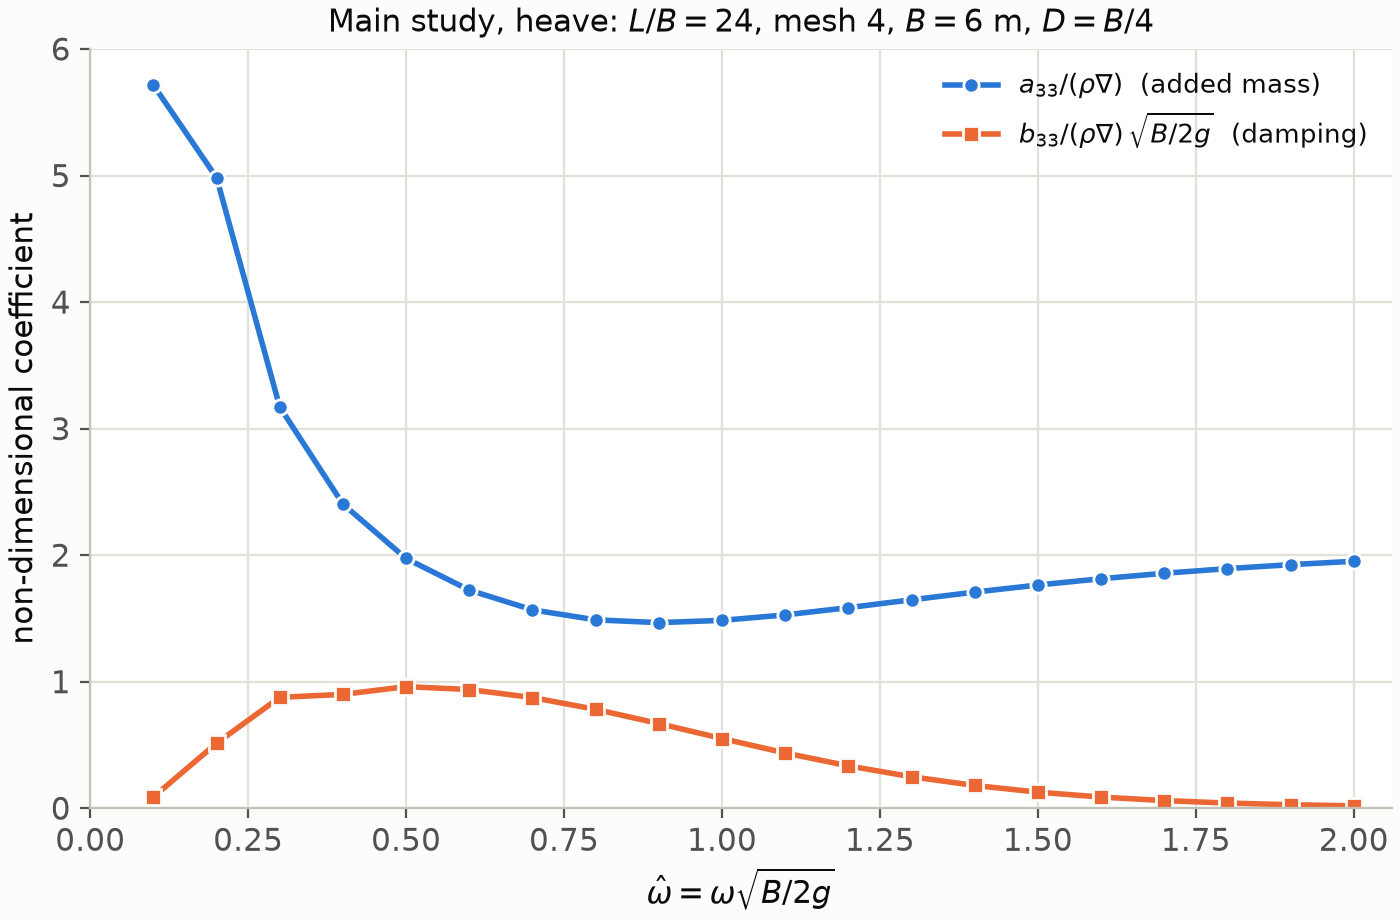
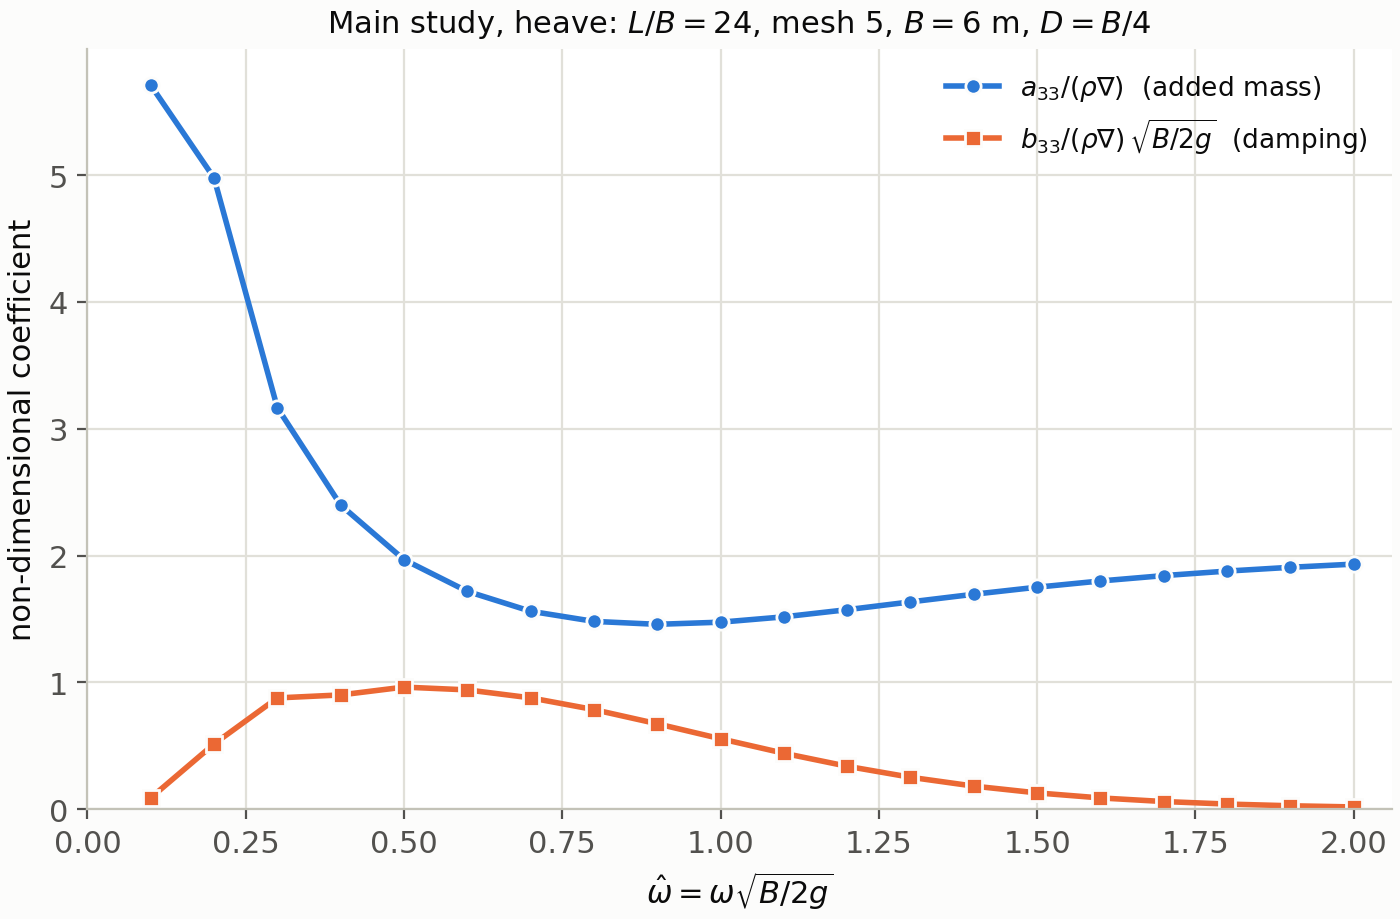
Update site to mesh 5

diff --git a/assets/wavesim.js b/assets/wavesim.js
@@ -6,7 +6,7 @@
    Konvensjon (WAMIT): rørsla er eta(t) = cos(wt), og bølgja i ein sonde er zeta_n(t) = |zeta_n| cos(wt + fase_n).
    Ei utgåande bølgje er cos(wt - k y + c), så fasen er fase_n = c - k y_n, med k = w^2/g på djupt vatn. */
 
-const WS_DATA = {"heave":[[0.1,1884.9556,1544.62,5.715353,0.088841,0.020668,0.017612,0.012773,0.001477,0.001044,-12.64,-14.924,-20.859,-44.136,-44.758],[0.2,471.2389,386.15,4.983019,0.513626,0.093058,0.082897,0.06589,0.021468,0.015218,-38.68,-44.995,-61.269,-44.089,-44.06],[0.3,209.4395,171.62,3.170812,0.876455,0.206325,0.196591,0.177892,0.099504,0.071512,-70.96,-82.431,-112.187,-46.601,-43.908],[0.4,117.8097,96.54,2.403484,0.89964,0.279332,0.294748,0.32185,0.267471,0.202216,-103.565,-123.434,-173.481,-58.438,-50.13],[0.5,75.3982,61.78,1.97358,0.960845,0.261387,0.289856,0.399369,0.471703,0.416901,-114.355,-152.838,119.082,-78.836,-62.522],[0.6,52.3599,42.91,1.723719,0.938068,0.432,0.401925,0.366199,0.46768,0.607932,-113.483,-156.64,65.178,-97.481,-82.672],[0.7,38.4685,31.52,1.567684,0.874458,0.548952,0.608018,0.573342,0.497401,0.525695,-144.038,161.627,6.923,-71.959,-96.983],[0.8,29.4524,24.14,1.488714,0.78119,0.616875,0.585468,0.69742,0.692692,0.61552,-152.926,131.68,-94.618,-88.192,-71.43],[0.9,23.2711,19.07,1.466645,0.668966,0.704182,0.75759,0.633704,0.704061,0.732817,179.959,89.587,175.975,-77.019,-90.356],[1.0,18.8496,15.45,1.484661,0.550758,0.810295,0.737081,0.817438,0.695203,0.789149,162.071,51.443,62.043,-85.737,-78.578],[1.1,15.5781,12.77,1.527795,0.436666,0.794444,0.729666,0.716718,0.782369,0.710257,140.33,-3.63,-55.436,-88.075,-83.382],[1.2,13.09,10.73,1.584975,0.334579,0.762658,0.785571,0.800853,0.801364,0.742775,112.788,-57.928,166.492,-87.075,-88.862],[1.3,11.1536,9.14,1.647017,0.24856,0.722087,0.783814,0.756042,0.778233,0.75328,82.875,-113.607,29.147,-87.493,-90.063],[1.4,9.6171,7.88,1.707881,0.179742,0.653867,0.741564,0.665624,0.740474,0.718059,50.238,-173.92,-131.165,-89.675,-91.211],[1.5,8.3776,6.87,1.763954,0.127006,0.567472,0.671364,0.664381,0.682874,0.646378,13.64,121.103,59.323,-93.672,-92.652],[1.6,7.3631,6.03,1.81374,0.088062,0.494697,0.585135,0.637122,0.588123,0.56142,-26.001,49.446,-116.781,-97.369,-91.418],[1.7,6.5223,5.34,1.856715,0.0602,0.475486,0.524188,0.552488,0.507589,0.524898,-66.417,-30.811,57.537,-96.023,-88.783],[1.8,5.8178,4.77,1.893465,0.040767,0.502746,0.498964,0.476722,0.488874,0.486102,-108.73,-114.992,-142.514,-98.77,-93.865],[1.9,5.2215,4.28,1.924848,0.027543,0.484042,0.43697,0.402002,0.406765,0.385114,-150.424,163.341,7.211,-105.667,-93.763],[2.0,4.7124,3.86,1.951684,0.018698,0.442806,0.338362,0.368897,0.380918,0.37569,177.495,82.251,145.051,-104.92,-92.993]],"sway":[[0.1,1884.9556,1544.62,0.674976,3e-06,0.001937,0.001146,0.000515,1.3e-05,9e-06,179.981,179.949,179.755,-139.093,-137.327],[0.2,471.2389,386.15,0.700065,0.000402,0.009036,0.005927,0.003466,0.000816,0.000578,178.99,177.547,171.104,-142.118,-139.748],[0.3,209.4395,171.62,0.74876,0.005366,0.026624,0.02028,0.015873,0.009091,0.006578,172.283,164.016,137.4,-150.639,-145.832],[0.4,117.8097,96.54,0.815727,0.026009,0.062211,0.052856,0.050979,0.046758,0.036153,156.588,136.299,80.393,-168.33,-158.266],[0.5,75.3982,61.78,0.884948,0.082935,0.119338,0.104087,0.110493,0.136062,0.12528,138.483,104.816,9.944,163.932,-179.812],[0.6,52.3599,42.91,0.91213,0.195786,0.228907,0.20687,0.182067,0.210161,0.276177,117.027,74.266,-57.632,138.728,149.469],[0.7,38.4685,31.52,0.850409,0.356709,0.359626,0.368135,0.373813,0.337791,0.328196,83.897,24.608,-135.461,147.277,125.236],[0.8,29.4524,24.14,0.702171,0.51647,0.516099,0.481529,0.552503,0.548269,0.520492,59.077,-17.136,114.142,120.666,138.199],[0.9,23.2711,19.07,0.5238,0.626739,0.644541,0.712044,0.614725,0.704864,0.685536,23.061,-71.915,18.693,123.468,107.91],[1.0,18.8496,15.45,0.36714,0.678925,0.86118,0.831711,0.916907,0.740911,0.91788,-5.037,-115.068,-107.444,108.977,114.881],[1.1,15.5781,12.77,0.248735,0.687405,0.951475,0.88194,0.884343,0.957641,0.856847,-31.007,-175.614,137.077,98.215,108.947],[1.2,13.09,10.73,0.166548,0.670743,0.997385,1.121256,1.099726,1.156552,0.961886,-63.534,124.89,-12.676,96.147,95.599],[1.3,11.1536,9.14,0.111816,0.640321,1.085443,1.304802,1.300556,1.292818,1.127889,-98.44,69.31,-146.662,94.663,90.09],[1.4,9.6171,7.88,0.076325,0.603227,1.177337,1.389697,1.127635,1.388631,1.222841,-132.713,9.146,55.637,91.657,88.007],[1.5,8.3776,6.87,0.054368,0.563372,1.235978,1.457674,1.293372,1.408212,1.231614,-166.176,-57.203,-123.12,87.719,88.738],[1.6,7.3631,6.03,0.041729,0.523771,1.305172,1.564378,1.581817,1.313277,1.281445,162.055,-129.473,60.717,88.748,96.1],[1.7,6.5223,5.34,0.035074,0.484226,1.517868,1.683935,1.704787,1.446925,1.600381,127.07,151.642,-122.906,97.937,97.995],[1.8,5.8178,4.77,0.03315,0.446579,1.74466,1.727596,1.731309,1.74254,1.689327,80.99,66.051,39.646,91.328,87.221],[1.9,5.2215,4.28,0.034449,0.410359,1.614969,1.602933,1.754013,1.514018,1.499707,32.824,-21.174,-171.561,89.464,94.135],[2.0,4.7124,3.86,0.037874,0.376192,1.655135,1.569483,1.804328,1.851904,1.878369,-2.234,-102.758,-35.719,93.369,90.408]]};
+const WS_DATA = {"heave":[[0.1,1884.9556,2330.01,5.710051,0.088859,0.020674,0.017614,0.012773,0.001477,0.001044,-12.638,-14.923,-20.859,-44.136,-44.758],[0.2,471.2389,582.5,4.978073,0.513812,0.093086,0.082906,0.065895,0.02147,0.01522,-38.673,-44.993,-61.268,-44.089,-44.059],[0.3,209.4395,258.89,3.165664,0.876989,0.206386,0.196623,0.177924,0.099528,0.071529,-70.947,-82.426,-112.185,-46.6,-43.906],[0.4,117.8097,145.63,2.398147,0.900608,0.279415,0.294818,0.321943,0.267577,0.202304,-103.538,-123.421,-173.475,-58.435,-50.125],[0.5,75.3982,93.2,1.967911,0.962424,0.261609,0.290066,0.399584,0.471947,0.417159,-114.31,-152.806,119.106,-78.824,-62.514],[0.6,52.3599,64.72,1.717436,0.940369,0.432275,0.40229,0.366762,0.468109,0.608395,-113.459,-156.643,65.209,-97.435,-82.65],[0.7,38.4685,47.55,1.560571,0.877522,0.549557,0.608593,0.573994,0.498197,0.526469,-143.956,161.68,6.928,-71.964,-96.913],[0.8,29.4524,36.41,1.480587,0.784929,0.617656,0.58693,0.698538,0.693838,0.616674,-152.902,131.685,-94.526,-88.098,-71.433],[0.9,23.2711,28.77,1.457393,0.67314,0.706056,0.759246,0.635812,0.705436,0.734664,-179.948,89.686,175.975,-77.011,-90.228],[1.0,18.8496,23.3,1.474302,0.555026,0.811596,0.739071,0.81922,0.698462,0.790545,162.17,51.442,62.179,-85.669,-78.543],[1.1,15.5781,19.26,1.516468,0.440674,0.796155,0.73386,0.719863,0.785764,0.713775,140.331,-3.53,-55.454,-87.875,-83.383],[1.2,13.09,16.18,1.572856,0.33801,0.766207,0.789104,0.804697,0.804141,0.747753,112.765,-57.651,166.76,-86.804,-88.702],[1.3,11.1536,13.79,1.634293,0.251219,0.727366,0.785748,0.757355,0.780872,0.758727,82.932,-113.286,29.334,-87.132,-89.765],[1.4,9.6171,11.89,1.69461,0.181548,0.660497,0.743345,0.670252,0.744225,0.724325,50.4,-173.604,-131.064,-89.182,-90.832],[1.5,8.3776,10.36,1.750205,0.127985,0.575075,0.674462,0.671832,0.688914,0.653558,13.913,121.445,59.763,-93.079,-92.276],[1.6,7.3631,9.1,1.799341,0.088315,0.502466,0.590075,0.644034,0.595935,0.568317,-25.657,49.819,-116.185,-96.857,-91.157],[1.7,6.5223,8.06,1.841582,0.059854,0.482229,0.529905,0.55836,0.5145,0.530462,-66.115,-30.471,57.915,-95.768,-88.588],[1.8,5.8178,7.19,1.877258,0.03999,0.506259,0.50327,0.47995,0.492597,0.490998,-108.587,-114.835,-142.602,-98.554,-93.653],[1.9,5.2215,6.45,1.90715,0.026426,0.483525,0.437867,0.399269,0.408747,0.3876,-150.415,163.208,6.675,-105.495,-94.315],[2.0,4.7124,5.83,1.932125,0.017257,0.433572,0.33166,0.35702,0.369809,0.363789,177.062,81.832,144.902,-105.261,-93.168]],"sway":[[0.1,1884.9556,2330.01,0.670428,3e-06,0.001933,0.001142,0.000513,1.3e-05,9e-06,179.981,179.949,179.755,-139.093,-137.327],[0.2,471.2389,582.5,0.695324,0.000399,0.009017,0.00591,0.003456,0.000814,0.000576,178.991,177.548,171.105,-142.117,-139.748],[0.3,209.4395,258.89,0.743635,0.005324,0.026558,0.020218,0.015825,0.009063,0.006558,172.29,164.019,137.405,-150.636,-145.829],[0.4,117.8097,145.63,0.810049,0.02579,0.062032,0.05268,0.050809,0.046599,0.03603,156.612,136.312,80.409,-168.316,-158.253],[0.5,75.3982,93.2,0.878714,0.082182,0.118954,0.103716,0.110097,0.135555,0.124809,138.531,104.848,9.984,163.971,-179.777],[0.6,52.3599,64.72,0.905913,0.193929,0.228062,0.206067,0.181414,0.209395,0.275089,117.109,74.323,-57.572,138.808,149.547],[0.7,38.4685,47.55,0.845382,0.353442,0.358342,0.366745,0.372308,0.336481,0.327131,84.039,24.73,-135.363,147.36,125.358],[0.8,29.4524,36.41,0.699129,0.512321,0.514312,0.48011,0.550803,0.546603,0.518564,59.224,-17.022,114.315,120.84,138.317],[0.9,23.2711,28.77,0.522434,0.622668,0.643058,0.710231,0.613226,0.702628,0.684256,23.244,-71.725,18.789,123.599,108.103],[1.0,18.8496,23.3,0.366639,0.6755,0.858837,0.82971,0.915064,0.740316,0.915288,-4.851,-114.952,-107.233,109.09,115.041],[1.1,15.5781,19.26,0.248476,0.684755,0.949261,0.882022,0.883086,0.957307,0.856028,-30.904,-175.486,137.135,98.419,109.0],[1.2,13.09,16.18,0.166216,0.668725,0.996975,1.12107,1.100125,1.155727,0.963387,-63.486,125.111,-12.444,96.368,95.731],[1.3,11.1536,13.79,0.111299,0.638754,1.087446,1.303624,1.298284,1.292272,1.130695,-98.382,69.51,-146.528,94.885,90.305],[1.4,9.6171,11.89,0.075623,0.601959,1.182304,1.388782,1.131069,1.389929,1.228091,-132.65,9.275,55.564,91.898,88.235],[1.5,8.3776,10.36,0.053525,0.562289,1.244528,1.457934,1.302833,1.414268,1.241016,-166.183,-57.15,-122.906,87.964,88.829],[1.6,7.3631,9.1,0.040825,0.522791,1.314572,1.566037,1.59015,1.32521,1.28953,161.864,-129.438,61.01,88.718,95.817],[1.7,6.5223,8.06,0.03416,0.483404,1.524456,1.689472,1.710693,1.453419,1.603566,126.913,151.686,-122.794,97.676,97.87],[1.8,5.8178,7.19,0.032274,0.445925,1.75405,1.740151,1.735558,1.753351,1.703783,80.992,66.042,39.519,91.352,87.198],[1.9,5.2215,6.45,0.033624,0.409916,1.628792,1.619919,1.755941,1.528312,1.50916,32.577,-21.476,-171.889,89.093,93.487],[2.0,4.7124,5.83,0.037128,0.376017,1.653273,1.576317,1.803016,1.854264,1.883493,-2.782,-103.416,-36.09,93.289,90.279]]};
 const WS_Y = [9, 15, 33];                                     // dei faste sondane; sonde 4 og 5 følgjer lambda, sjå wsYs()
 const WS_COL = ["#2a78d6", "#eb6834", "#1baf7a", "#eda100", "#e87ba4"];
 const WS_NAME = ["1.5B", "2.5B", "5.5B", "B/2+λ", "B/2+2λ"];
@@ -16,10 +16,10 @@ const WS_PERIOD = 6;                                           // sekund på skj
 SITE.add({
 no:{
  "ms.h":"Main study",
- "ms.p":"L/B = 24 og mesh 4, ω̂ = 0.1 til 2.0 i steg på 0.1. Same dimensjonslause storleikar som i sensitivitetsstudiane. Bølgjehøgd og fase er målt i fem sondar (z = 0, x = 0): tre faste (y = 1.5B, 2.5B og 5.5B) og to som følgjer bølgjelengda (y = B/2 + λ og B/2 + 2λ, rekna på nytt for kvar frekvens).",
+ "ms.p":"L/B = 24 og mesh 5, ω̂ = 0.1 til 2.0 i steg på 0.1. Same dimensjonslause storleikar som i sensitivitetsstudiane. Bølgjehøgd og fase er målt i fem sondar (z = 0, x = 0): tre faste (y = 1.5B, 2.5B og 5.5B) og to som følgjer bølgjelengda (y = B/2 + λ og B/2 + 2λ, rekna på nytt for kvar frekvens).",
  "ms.coef":"Added mass og demping",
  "ms.waves":"Bølgjehøgd og fase",
- "ms.warn":"Meshet er valt ved ω̂ = 0.8 (λ/Δx = 24) og er det same for alle frekvensar, så λ/Δx blir mindre ved høge frekvensar (3.9 ved ω̂ = 2). Dei høgaste frekvensane er derfor mindre pålitelege. Fasen er innpakka til ±180°. For dei faste sondene går fasen gjennom fleire heile omdreiingar mellom to punkt, medan sondene som følgjer bølgjelengda har ein jamn fase.",
+ "ms.warn":"Meshet er valt ved ω̂ = 0.8 (λ/Δx = 36) og er det same for alle frekvensar, så λ/Δx blir mindre ved høge frekvensar (5.8 ved ω̂ = 2). Dei høgaste frekvensane er derfor mindre pålitelege. Fasen er innpakka til ±180°. For dei faste sondene går fasen gjennom fleire heile omdreiingar mellom to punkt, medan sondene som følgjer bølgjelengda har ein jamn fase.",
  "wv.h":"Animasjon: bølgjene frå boksen",
  "wv.p":"Boksen svingar og sender bølgjer ut til begge sider. Ei utgåande bølgje har fasen −k·y, med k = ω²/g. Tre sondar står fast (1.5B, 2.5B og 5.5B). Dei to siste følgjer bølgjelengda (B/2 + λ og B/2 + 2λ), så dei flyttar seg når du endrar frekvensen, og ved låg frekvens ligg dei utanfor biletet. Glidaren går i steg på 0.02. I målepunkta (0.1, 0.2, ...) er prikkane WAMIT-data, og mellom dei brukar eg teorien. Den blå linja er bølgjeteorien (djupt vatn).",
  "wv.omega":"Frekvens ω̂",
@@ -38,10 +38,10 @@ no:{
 },
 en:{
  "ms.h":"Main study",
- "ms.p":"L/B = 24 and mesh 4, ω̂ = 0.1 to 2.0 in steps of 0.1. The same non-dimensional quantities as in the sensitivity studies. Wave elevation and phase are measured in five probes (z = 0, x = 0): three fixed (y = 1.5B, 2.5B and 5.5B) and two that follow the wavelength (y = B/2 + λ and B/2 + 2λ, placed again for every frequency).",
+ "ms.p":"L/B = 24 and mesh 5, ω̂ = 0.1 to 2.0 in steps of 0.1. The same non-dimensional quantities as in the sensitivity studies. Wave elevation and phase are measured in five probes (z = 0, x = 0): three fixed (y = 1.5B, 2.5B and 5.5B) and two that follow the wavelength (y = B/2 + λ and B/2 + 2λ, placed again for every frequency).",
  "ms.coef":"Added mass and damping",
  "ms.waves":"Wave elevation and phase",
- "ms.warn":"The mesh was chosen at ω̂ = 0.8 (λ/Δx = 24) and is the same for all frequencies, so λ/Δx gets smaller at high frequencies (3.9 at ω̂ = 2). The highest frequencies are therefore less reliable. The phase is wrapped to ±180°. For the fixed probes the phase passes through several full turns between two points, while the probes that follow the wavelength have a smooth phase.",
+ "ms.warn":"The mesh was chosen at ω̂ = 0.8 (λ/Δx = 36) and is the same for all frequencies, so λ/Δx gets smaller at high frequencies (5.8 at ω̂ = 2). The highest frequencies are therefore less reliable. The phase is wrapped to ±180°. For the fixed probes the phase passes through several full turns between two points, while the probes that follow the wavelength have a smooth phase.",
  "wv.h":"Animation: the waves from the box",
  "wv.p":"The box oscillates and sends waves out to both sides. An outgoing wave has the phase −k·y, with k = ω²/g. Three probes are fixed (1.5B, 2.5B and 5.5B). The last two follow the wavelength (B/2 + λ and B/2 + 2λ), so they move when you change the frequency, and at low frequency they are outside the picture. The slider moves in steps of 0.02. At the data points (0.1, 0.2, ...) the dots are WAMIT data, and in between I use theory. The blue line is wave theory (deep water).",
  "wv.omega":"Frequency ω̂",
@@ -220,8 +220,8 @@ function wsControls(){
 
 function wsImages(){
   const d = WSIM.dof;
-  document.getElementById("msimg1").src = "results/main_study/main_study_" + d + "_coefficients.png?v=11";
-  document.getElementById("msimg2").src = "results/main_study/main_study_" + d + "_waves.png?v=11";
+  document.getElementById("msimg1").src = "results/main_study/main_study_" + d + "_coefficients.png?v=12";
+  document.getElementById("msimg2").src = "results/main_study/main_study_" + d + "_waves.png?v=12";
   document.getElementById("msdl").href = "results/main_study/main_study_" + d + "_table.csv";
 }
 

diff --git a/assets/results.js b/assets/results.js
@@ -38,10 +38,10 @@ no:{
  "rs.v3_info_mesh":"Mesh {k}, mål λ/Δ = ({a}, {b}, {c}). Panel: Nx = {nx}, Ny = {ny}, Nz = {nz}, totalt {n} i kvartboksen.",
  "rs.mesh_h":"Mesh study",
  "rs.mesh_p":"Same boks (L/B = 24, ω̂ = 0.8) med seks meshtettleikar. x, y og z er forfina saman, og x-aksen er λ/Δx. Mål for kvar mesh står i tabellen under.",
- "rs.mpick_h":"Valt mesh: nr. 4 (λ/Δx = 24)",
- "rs.mpick_p":"677 paneler i kvartboksen. Endring frå mesh 3 til 4, og frå 4 til 5:",
- "rs.mf1":"Endringa frå førre mesh blir mindre for kvart steg. Frå λ/Δx = 24 er ho under omtrent 1 % for a og b (heave og sway), og ζ endrar seg under 0,4 % mellom to mesh.",
- "rs.mf2":"Mesh 4 ligg innanfor omtrent 1 % av det finaste meshet (λ/Δx = 48) for heave (a +0,97 %, b −0,79 %), og litt over 1 % for sway-demping (a +0,85 %, b −1,46 %).",
+ "rs.mpick_h":"Valt mesh: nr. 5 (λ/Δx = 36)",
+ "rs.mpick_p":"1385 paneler i kvartboksen. Endring frå mesh 4 til 5, og frå 5 til 6:",
+ "rs.mf1":"Endringa frå førre mesh blir mindre for kvart steg. Frå λ/Δx = 36 er ho under 1 % for a og b (heave og sway), og ζ endrar seg under 0,4 % mellom to mesh.",
+ "rs.mf2":"Mesh 5 ligg innanfor 1 % av det finaste meshet (λ/Δx = 48) for både heave (a +0,42 %, b −0,32 %) og sway (a +0,41 %, b +0,65 %).",
  "rs.mf3":"Alle fem sondane flyttar seg likt og jamt, så ζ svingar ikkje slik som i lengdestudien. Alle retningar er forfina saman, så vi veit ikkje kva retning som styrer endringa. Dei grovaste meshane har berre 1 til 2 paneler over halve breidda og over djupgangen.",
  "rs.mhl":"Rada for valt mesh er markert. Δ er endring frå førre mesh i prosent. Paneler er talet i kvartboksen."
 },
@@ -75,10 +75,10 @@ en:{
  "rs.v3_info_mesh":"Mesh {k}, target λ/Δ = ({a}, {b}, {c}). Panels: Nx = {nx}, Ny = {ny}, Nz = {nz}, total {n} in the quarter box.",
  "rs.mesh_h":"Mesh study",
  "rs.mesh_p":"The same box (L/B = 24, ω̂ = 0.8) with six mesh densities. x, y and z are refined together, and the x-axis is λ/Δx. The targets for each mesh are in the table below.",
- "rs.mpick_h":"Chosen mesh: no. 4 (λ/Δx = 24)",
- "rs.mpick_p":"677 panels in the quarter box. Change from mesh 3 to 4, and from 4 to 5:",
- "rs.mf1":"The change from the previous mesh gets smaller at every step. From λ/Δx = 24 it is below about 1 % for a and b (heave and sway), and ζ changes by less than 0.4 % between two meshes.",
- "rs.mf2":"Mesh 4 is within about 1 % of the finest mesh (λ/Δx = 48) for heave (a +0.97 %, b −0.79 %), and slightly above 1 % for sway damping (a +0.85 %, b −1.46 %).",
+ "rs.mpick_h":"Chosen mesh: no. 5 (λ/Δx = 36)",
+ "rs.mpick_p":"1385 panels in the quarter box. Change from mesh 4 to 5, and from 5 to 6:",
+ "rs.mf1":"The change from the previous mesh gets smaller at every step. From λ/Δx = 36 it is below 1 % for a and b (heave and sway), and ζ changes by less than 0.4 % between two meshes.",
+ "rs.mf2":"Mesh 5 is within 1 % of the finest mesh (λ/Δx = 48) for both heave (a +0.42 %, b −0.32 %) and sway (a +0.41 %, b +0.65 %).",
  "rs.mf3":"All five probes move together and smoothly, so ζ does not oscillate as in the length study. All directions are refined together, so we do not know which direction drives the change. The coarsest meshes have only 1 to 2 panels over the half beam and over the draught.",
  "rs.mhl":"The row for the chosen mesh is highlighted. Δ is the change from the previous mesh in percent. Panels is the number in the quarter box."
 }
@@ -88,7 +88,7 @@ en:{
 // ---------- Mesh study ----------
 // Radene er [mesh, lambda/dx, paneler (kvartboks), a, b, zeta for 5 sondar].
 const MESH_DATA = {"heave":[[1,3,17,1.688228,0.728211,0.606492,0.554416,0.698537,0.692173,0.605409],[2,6,47,1.587705,0.745953,0.608152,0.568301,0.684131,0.679076,0.601093],[3,12,188,1.517053,0.768562,0.614672,0.580062,0.692754,0.687934,0.610953],[4,24,677,1.488714,0.78119,0.616875,0.585468,0.69742,0.692692,0.61552],[5,36,1385,1.480587,0.784929,0.617656,0.58693,0.698538,0.693838,0.616674],[6,48,2576,1.474367,0.787439,0.618396,0.588008,0.699689,0.694994,0.617653]],"sway":[[1,3,17,0.753773,0.637049,0.557777,0.510767,0.588216,0.582603,0.568334],[2,6,47,0.740487,0.561352,0.534563,0.496454,0.570102,0.565464,0.541194],[3,12,188,0.715306,0.530774,0.522576,0.48712,0.558863,0.554513,0.527561],[4,24,677,0.702171,0.51647,0.516099,0.481529,0.552503,0.548269,0.520492],[5,36,1385,0.699129,0.512321,0.514312,0.48011,0.550803,0.546603,0.518564],[6,48,2576,0.696271,0.509021,0.5128,0.478825,0.549227,0.545048,0.516953]]};
-const MCHOSEN = 4;
+const MCHOSEN = 5;
 let mdof = "heave";
 
 function renderMesh(){
@@ -96,7 +96,7 @@ function renderMesh(){
   const n = mdof==="heave" ? 3 : 2;
   document.querySelectorAll("#mdofchips .chip").forEach(c=>c.classList.toggle("on", c.dataset.d===mdof));
   const img = document.getElementById("meshimg");
-  img.src = "results/mesh_study/mesh_study_"+mdof+".png?v=8";
+  img.src = "results/mesh_study/mesh_study_"+mdof+".png?v=9";
   img.alt = SITE.t("rs.fig")+", "+mdof;
   document.getElementById("mdl").href = "results/mesh_study/mesh_study_"+mdof+"_table.csv";
   document.getElementById("mpickdev").innerHTML =

diff --git a/results.html b/results.html
@@ -111,7 +111,7 @@
 </main>
 <footer id="site-footer"></footer>
 <script src="assets/pyplot.js?v=8"></script>
-<script src="assets/results.js?v=10"></script>
-<script src="assets/wavesim.js?v=13"></script>
+<script src="assets/results.js?v=11"></script>
+<script src="assets/wavesim.js?v=14"></script>
 </body>
 </html>
